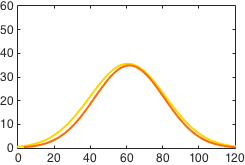
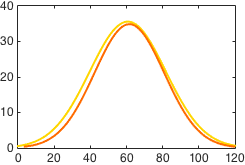
Finish rule-based player

diff --git a/partials/52_parametrizing.tex b/partials/52_parametrizing.tex
@@ -134,15 +134,49 @@ Applying the same procedure to the three predictor variables, the decided \emph{
 Conversely, the decided \emph{easy} initial conditions to a team (with high probability of winning) are to have at least 6 trumps, at least 3 ace and at least 3 seven.
 Other cases are considered as \emph{medium} hands.
 
-\begin{figure}[h!]
-  \centering
-    \includegraphics[width=0.7\textwidth]{./img/5/classifiedPercentages}
-  \caption{Favourable games percentages grouped by initial hands categorization}
-\label{fig:classifiedPercentages}
+The developed classifications will be used in two different measures: (1) the favourable games rate (won or drew games); (2) the histogram of obtained points by a certain team.
+The first measure is more general and is used to compare the effective performance of players.
+On the other hand, the second measure details the points distribution, since the same favourable games rates can lead to different histogram of the final points.
+
+\begin{figure}[h]
+        \centering
+        \begin{subfigure}[h]{0.32\textwidth}
+                \includegraphics[width=\textwidth]{./img/5/ABChard}
+                \caption{filipa}
+                \label{fig:ABC-Hhard}
+        \end{subfigure}
+        \begin{subfigure}[h]{0.32\textwidth}
+                \includegraphics[width=\textwidth]{./img/5/ABCmedium}
+                \caption{filipa}
+                \label{fig:ABC-Hmedium}
+        \end{subfigure}
+        \begin{subfigure}[h]{0.32\textwidth}
+                \includegraphics[width=\textwidth]{./img/5/ABCeasy}
+                \caption{filipa}
+                \label{fig:ABC-Heasy}
+        \end{subfigure}
+        \caption{filipa}
+        \label{fig:ABC-CH}
 \end{figure}
 
-On top of the developed classification, the new benchmark for evaluating the \ac{pimc} algorithm is the favourable games percentage (in which the team drew or won) for the three types of initial hands.
-As shown in Figure~\ref{fig:classifiedPercentages}, three conclusions can be observed: \emph{easy} initial hands led to won or drew games 100\% of the times in every scenario; the only scenario with the favourable games percentage higher than 0\% with \emph{hard} initial hands was (c); and obtained favourable games percentage in scenarios (a), (b) and (c) were 50.6\% 59.0\% 63.5\%, respectively.
+Figure~\ref{fig:ABC-CH} shows the distribution of the final points obtained in scenarios (a), (b) and (c) divided into the three mentioned classifications.
+The goal of dividing Figure~\ref{fitHistABC} is to see if the detected differences play a prominent role in each individual initial hand type.
+However, out of each 1000 collected games, a few percentage refers to games with \emph{hard} or \emph{easy} initial conditions (between 2\% and 3\% each one), which means the apparent results from \emph{hard} and \emph{easy} initial conditions have low confidence values.
+The final points of a team are higher as its Gaussian fitting curve moves to the right in the x axe.
+Hence, the distribution charts for \emph{hard} and \emph{medium} evidence the same results: the team with 1 Rule-based player (b) achieved higher final scores and the team with 2 Ruled-based players (c) obtained even higher when compared to 4 Random players (a).
+Nevertheless, regarding \emph{easy} initial conditions, the team with 1 Rule-based player underperforms slightly the other two scenarios.
+
+\begin{figure}[h!]
+  \centering
+    \includegraphics[width=0.7\textwidth]{./img/5/ABC-fr}
+  \caption{filipa}
+\label{fig:ABC-fr}
+\end{figure}
+
+Additionally, the favourable games rates (won or drew games), presented in Figure~\ref{fig:ABC-fr}, measure the effectiveness of players when competing with each other.
+This rate also evidenced that the Rule-based player outperforms the Random player, mainly based on the favourable games rate of the \emph{medium} hands, in which the confidence is higher due to number of samples.
+
+In sum, the Rule-based player guided the development of new measures and will be the benchmark for evaluating the \ac{pimc} algorithm.
 
 \subsection{The Trick Player}
 
